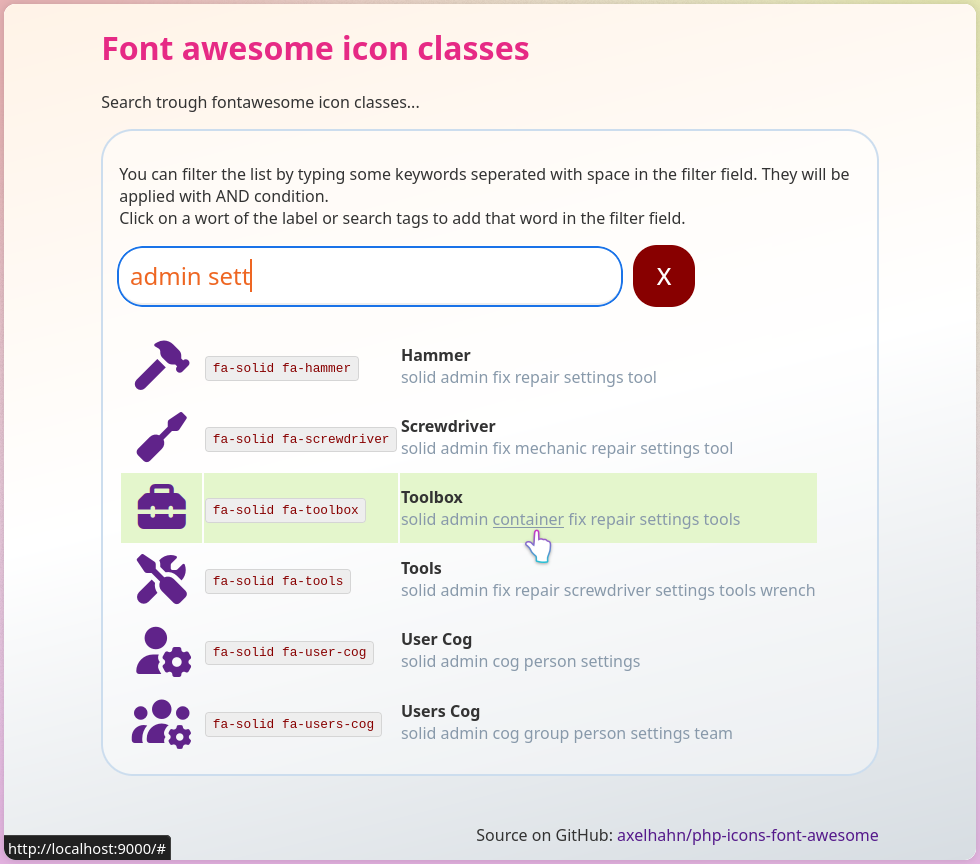
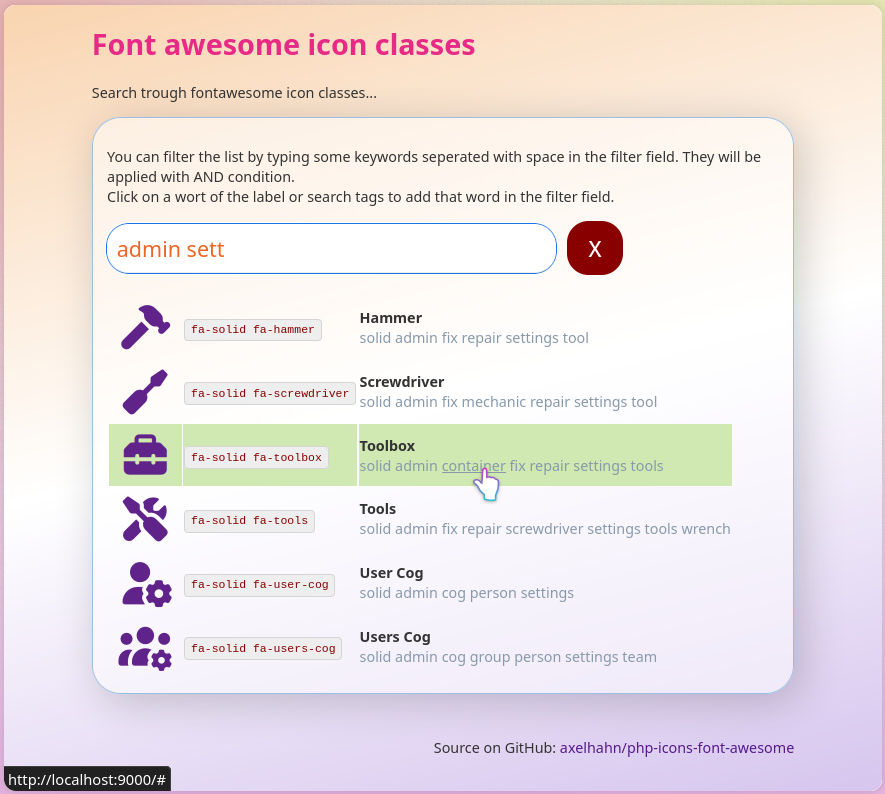
update css colors

diff --git a/main.css b/main.css
@@ -1,5 +1,5 @@
 body{
-    background: linear-gradient(-14deg, #d7dde2, #fff,rgb(255, 243, 231)) fixed;
+    background: linear-gradient(-14deg, #d6c5ee, #fff,rgb(249, 212, 176)) fixed;
     color: #333;
     font-family: sans-serif;
     margin: 1em 10%;
@@ -57,7 +57,7 @@ a:hover{
 }
 
 tr:hover{
-    background: #e4f6cc;
+    background: #d0e8b1;
 }
 /*
 tr:hover td i{
@@ -71,9 +71,10 @@ tr:hover td i{
     */
 
 div.main{
-    background: rgba(255,255,255,0.4);
-    border: 2px solid #cde;
+    background: rgba(255,255,255,0.5);
+    border: 2px solid rgb(154, 191, 228);
     border-radius: 2em;
+    box-shadow: 0.5em 0.5em 3em rgba(0, 0, 0, 0.2);
     padding: 1em;
     margin-bottom: 3em;
     min-width: 38em;;

diff --git a/README.md b/README.md
@@ -8,7 +8,7 @@ Free software and Open Source
 📄 Source: <https://github.com/axelhahn/php-icons-font-awesome> \
 📜 License: GNU GPL 3.0
 
-Related lnks:
+**Related lnks**:
 
 * Font-awesome website: <https://fontawesome.com/>
 * CDNJS - the cdn we load the icons from: <https://cdnjs.com/libraries/font-awesome>
